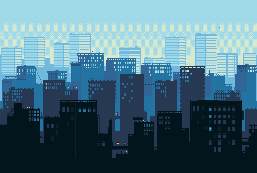
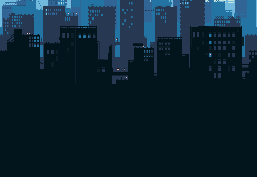
rendu + réaliste

diff --git a/main.py b/main.py
@@ -12,7 +12,8 @@ fireball_sprite = [(0, 184, 32, 56), (32, 184, 39, 56), (72, 184, 48, 53),
 pal = [0xffffff,0x8c938c,0x5a3936,0x28222c,0x4c505b,0x73522d,
        0x83604f,0x3c4c54,0xc49892,0x3c445c,0x6c6e6c,0x7c706a,
        0x6c6468,0xf3b340,0xe68d02,0xffb228,0xAF082D,0x83213C,
-       0xF35C5C,0x2D2E4D,0x3A072B]
+       0xF35C5C,0x2D2E4D,0x3A072B,0x273852,0xA0DAE8,
+       0x316595,0xE2A199,0x2374A2,0x71BADD,0x000000]
 
 pyxel.init(254, 157, "Ethereal Odyssey")
 pyxel.load("ressources.pyxres")
@@ -97,21 +98,20 @@ def draw():
     pyxel.camera(scroll_x, 0)
     pyxel.images[2].load(0, 0, "assets/assets1.png")
     pyxel.images[1].load(0, 0, "assets/background.png")
-    pyxel.blt(scroll_x, 0, 2, 36, 0, 60, 23, 23)
     for i in range(50):
       pyxel.blt(256*i, 0, 1, 0,0,256,177)
 
     for elt in pnj_list:
-      pyxel.blt(elt["position_x"], elt["position_y"], elt["image_bank"], elt["location_x"], elt["location_y"], elt["size_x"], elt["size_y"])
+      pyxel.blt(elt["position_x"], elt["position_y"], elt["image_bank"], elt["location_x"], elt["location_y"], elt["size_x"], elt["size_y"], 0)
 
     #Démarrage de la quête
 
     if (is_inside == True):
-      pyxel.text(375, 75, "Press [E] to interact", 12)
+      pyxel.text(375, 75, "Press [E] to interact", 0)
     
     if(launch):
-      pyxel.text(scroll_x + 160, 5, title, 12)
-      pyxel.text(scroll_x + 150, 15, instruction, 12)
+      pyxel.text(scroll_x + 160, 5, title, 0)
+      pyxel.text(scroll_x + 150, 15, instruction, 0)
 
     if character != "" and dialog != {} and dialog != "":  
       pyxel.rect(scroll_x, 85, 256, 82, 12)
